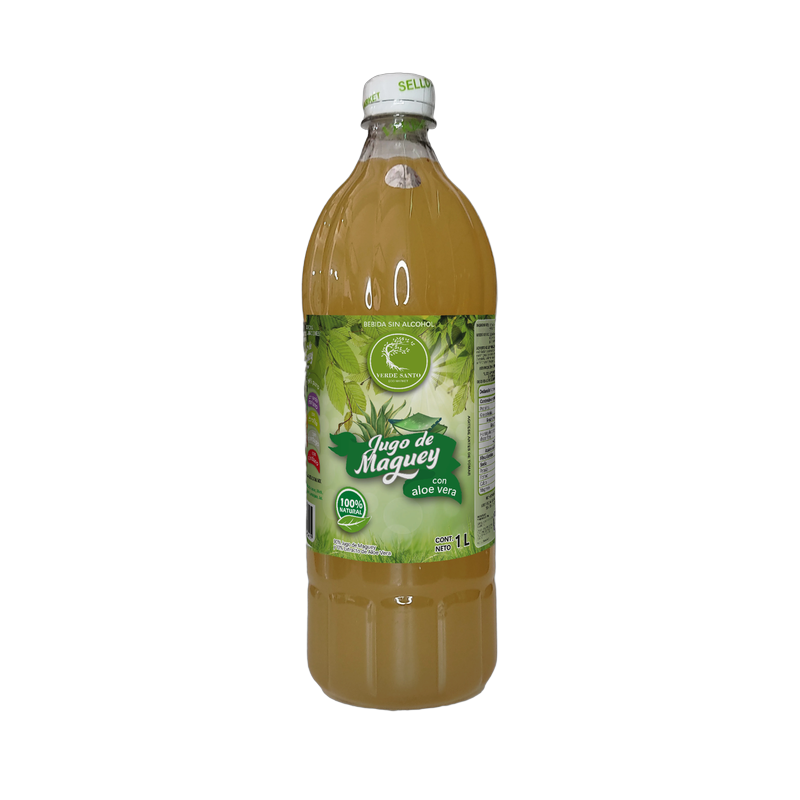
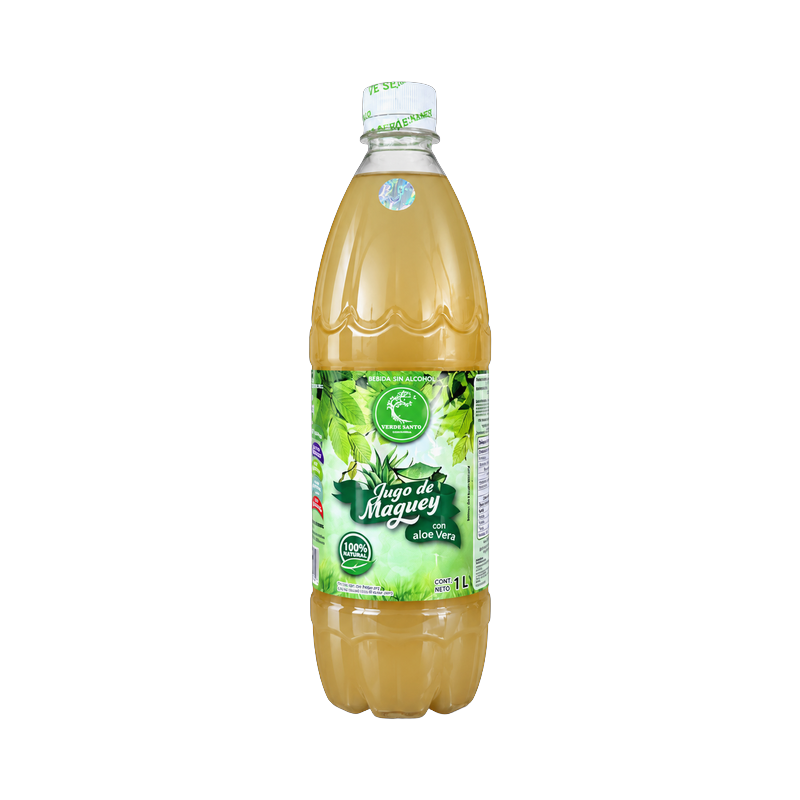
Fotos nuevas de 8 Jugos de Maguey Verde Santo PET 1 L (#21)
* Fotos nuevas de 8 Jugos de Maguey Verde Santo PET 1 L (PNG del kit, misma altura)

Claude-Session: https://claude.ai/code/session_01MW4YBNVCdbsHfkz1U2M1qe

* Cotizador usa las fotos nuevas de los 8 Jugos de Maguey PET 1 L (Cloudinary dl2s0vpwb)

Claude-Session: https://claude.ai/code/session_01MW4YBNVCdbsHfkz1U2M1qe

---------

Changed region(s): [[0.375, 0.0938, 0.625, 0.9062]]

diff --git a/src/PedidoTabla.jsx b/src/PedidoTabla.jsx
@@ -400,7 +400,7 @@ const productCatalog = [
     mostrador: 150.00,
     digital: 150.00,
     image:
-      "https://res.cloudinary.com/dhldooapx/image/upload/f_auto,q_auto,w_400/v1746042219/ktqqp3vtuyui5evkapsl_tp7ebf.webp",
+      "https://res.cloudinary.com/dl2s0vpwb/image/upload/f_auto,q_auto,w_400/v1791959668/verde-santo/vs-jugo-pet-puro-1l.png",
     kitImage:
       "/assets/verde-santo/productos/vs-jugo-pet-puro-1l.png",
   },
@@ -422,7 +422,7 @@ const productCatalog = [
     mostrador: 150.00,
     digital: 150.00,
     image:
-      "https://res.cloudinary.com/dhldooapx/image/upload/f_auto,q_auto,w_400/v1746042240/gabbgk6inxkwsc8eg245_aortpk.webp",
+      "https://res.cloudinary.com/dl2s0vpwb/image/upload/f_auto,q_auto,w_400/v1791959679/verde-santo/vs-jugo-pet-10-plantas-1l.png",
     kitImage:
       "/assets/verde-santo/productos/vs-jugo-pet-10-plantas-1l.png",
   },
@@ -444,7 +444,7 @@ const productCatalog = [
     mostrador: 150.00,
     digital: 150.00,
     image:
-      "https://res.cloudinary.com/dhldooapx/image/upload/f_auto,q_auto,w_400/v1746042248/uzxmggwjawcojyhtbryj_ayhlyd.webp",
+      "https://res.cloudinary.com/dl2s0vpwb/image/upload/f_auto,q_auto,w_400/v1791959682/verde-santo/vs-jugo-pet-granada-1l.png",
     kitImage:
       "/assets/verde-santo/productos/vs-jugo-pet-granada-1l.png",
   },
@@ -488,7 +488,7 @@ const productCatalog = [
     mostrador: 150.00,
     digital: 150.00,
     image:
-      "https://res.cloudinary.com/dhldooapx/image/upload/f_auto,q_auto,w_400/v1746042229/qfxjmnw1ri0n6g2elsmp_qx4wxm.webp",
+      "https://res.cloudinary.com/dl2s0vpwb/image/upload/f_auto,q_auto,w_400/v1791959677/verde-santo/vs-jugo-pet-cardo-mariano-1l.png",
     kitImage:
       "/assets/verde-santo/productos/vs-jugo-pet-cardo-mariano-1l.png",
   },
@@ -510,7 +510,7 @@ const productCatalog = [
     mostrador: 150.00,
     digital: 150.00,
     image:
-      "https://res.cloudinary.com/dhldooapx/image/upload/f_auto,q_auto,w_400/v1746042230/ihco4xbgeuly6hiho2mp_xtv0fx.webp",
+      "https://res.cloudinary.com/dl2s0vpwb/image/upload/f_auto,q_auto,w_400/v1791959665/verde-santo/vs-jugo-pet-curcuma-1l.png",
     kitImage:
       "/assets/verde-santo/productos/vs-jugo-pet-curcuma-1l.png",
   },
@@ -554,7 +554,7 @@ const productCatalog = [
     mostrador: 150.00,
     digital: 150.00,
     image:
-      "https://res.cloudinary.com/dhldooapx/image/upload/f_auto,q_auto,w_400/v1746042233/ny34qm1bnkscbh4ysepg_yr44jv.webp",
+      "https://res.cloudinary.com/dl2s0vpwb/image/upload/f_auto,q_auto,w_400/v1791959671/verde-santo/vs-jugo-pet-nopal-1l.png",
     kitImage:
       "/assets/verde-santo/productos/vs-jugo-pet-nopal-1l.png",
   },
@@ -576,7 +576,7 @@ const productCatalog = [
     mostrador: 150.00,
     digital: 150.00,
     image:
-      "https://res.cloudinary.com/dhldooapx/image/upload/f_auto,q_auto,w_400/v1746042228/qo5f0drpgnl8kq2bbalz_qyvfhs.webp",
+      "https://res.cloudinary.com/dl2s0vpwb/image/upload/f_auto,q_auto,w_400/v1791959674/verde-santo/vs-jugo-pet-aloe-vera-1l.png",
     kitImage:
       "/assets/verde-santo/productos/vs-jugo-pet-aloe-vera-1l.png",
   },
@@ -598,7 +598,7 @@ const productCatalog = [
     mostrador: 150.00,
     digital: 150.00,
     image:
-      "https://res.cloudinary.com/dhldooapx/image/upload/f_auto,q_auto,w_400/v1746042171/to0b1sashlqp545rewc0_dki7t1.webp",
+      "https://res.cloudinary.com/dl2s0vpwb/image/upload/f_auto,q_auto,w_400/v1791959660/verde-santo/vs-jugo-pet-arandano-1l.png",
     kitImage:
       "/assets/verde-santo/productos/vs-jugo-pet-arandano-1l.png",
   },
